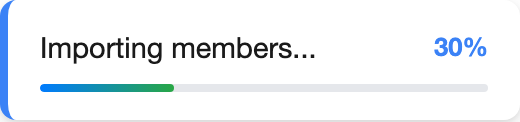
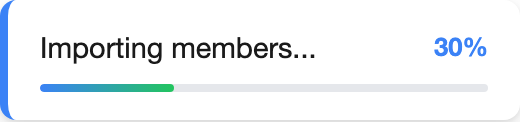
Fix UI consistency issues across components
- FlareModal: keep the close button right-aligned when there is no title.
- FlareCheckList: render InputAttributes on the root element; they were
  captured but never splatted.
- FlareRelativeTime/FlareRelativeDay: add a Class parameter so a custom
  class no longer replaces flare-title and breaks the tooltip.
- Loading bar and loading toast: default colors now match the rest of
  the palette (#3b82f6 / #22c55e instead of #007bff / #28a745).
- Loading bar: z-index 9300 so it stays above modal, confirm and toasts.

Changed region(s): [[0.0615, 0.6885, 0.2154, 0.7623], [0.2462, 0.6885, 0.3385, 0.7623]]

diff --git a/src/Flare/Components/FlareLoadingToast.razor.css b/src/Flare/Components/FlareLoadingToast.razor.css
@@ -50,9 +50,9 @@
             --flare-loading-bar-background,
             linear-gradient(
                 to right,
-                var(--flare-loading-toast-color, var(--flare-loading-bar-color, #007bff)),
-                var(--flare-loading-toast-color-alt, var(--flare-loading-toast-color, var(--flare-loading-bar-color-alt, var(--flare-loading-bar-color, #28a745)))),
-                var(--flare-loading-toast-color, var(--flare-loading-bar-color, #007bff))
+                var(--flare-loading-toast-color, var(--flare-loading-bar-color, #3b82f6)),
+                var(--flare-loading-toast-color-alt, var(--flare-loading-toast-color, var(--flare-loading-bar-color-alt, var(--flare-loading-bar-color, #22c55e)))),
+                var(--flare-loading-toast-color, var(--flare-loading-bar-color, #3b82f6))
             )
         )
     );

diff --git a/src/Flare/Components/FlareLoadingBar.razor.css b/src/Flare/Components/FlareLoadingBar.razor.css
@@ -4,7 +4,7 @@
     left: 0;
     right: 0;
     height: 6px;
-    z-index: 9100;
+    z-index: 9300;
     pointer-events: none;
 }
 
@@ -18,9 +18,9 @@
         --flare-loading-bar-background,
         linear-gradient(
             to right,
-            var(--flare-loading-bar-color, #007bff),
-            var(--flare-loading-bar-color-alt, var(--flare-loading-bar-color, #28a745)),
-            var(--flare-loading-bar-color, #007bff)
+            var(--flare-loading-bar-color, #3b82f6),
+            var(--flare-loading-bar-color-alt, var(--flare-loading-bar-color, #22c55e)),
+            var(--flare-loading-bar-color, #3b82f6)
         )
     );
     background-size: 200% 100%;

diff --git a/src/Flare/Components/FlareModal.razor.css b/src/Flare/Components/FlareModal.razor.css
@@ -39,6 +39,7 @@
 
 .flare-modal-close {
     all: unset;
+    margin-left: auto;
     cursor: pointer;
     font-size: 1.5rem;
     line-height: 1;

diff --git a/src/Flare/Components/FlareRelativeTime.razor.cs b/src/Flare/Components/FlareRelativeTime.razor.cs
@@ -26,6 +26,11 @@ public partial class FlareRelativeTime : ComponentBase
     [Parameter] public string Placeholder { get; set; } = "";
 
     /// <summary>
+    /// CSS class(es) applied to the wrapping <c>&lt;span&gt;</c> element.
+    /// </summary>
+    [Parameter] public string? Class { get; set; }
+
+    /// <summary>
     /// Additional HTML attributes splatted onto the wrapping <c>&lt;span&gt;</c> element.
     /// </summary>
     [Parameter(CaptureUnmatchedValues = true)] public Dictionary<string, object>? InputAttributes { get; set; }

diff --git a/src/Flare/Components/FlareRelativeDay.razor.cs b/src/Flare/Components/FlareRelativeDay.razor.cs
@@ -27,6 +27,11 @@ public partial class FlareRelativeDay : ComponentBase
     [Parameter] public string Placeholder { get; set; } = "";
 
     /// <summary>
+    /// CSS class(es) applied to the wrapping <c>&lt;span&gt;</c> element.
+    /// </summary>
+    [Parameter] public string? Class { get; set; }
+
+    /// <summary>
     /// Additional HTML attributes splatted onto the wrapping <c>&lt;span&gt;</c> element.
     /// </summary>
     [Parameter(CaptureUnmatchedValues = true)] public Dictionary<string, object>? InputAttributes { get; set; }

diff --git a/README.md b/README.md
@@ -403,8 +403,8 @@ using var _ = Flare.StartLoadingBar(delayMs: 0);  // shows immediately
 Colors are customizable via CSS variables on `:root` (or any ancestor):
 
 ```css
---flare-loading-bar-color: #007bff;      /* first gradient stop; set only this for a solid color */
---flare-loading-bar-color-alt: #28a745;  /* second gradient stop */
+--flare-loading-bar-color: #3b82f6;      /* first gradient stop; set only this for a solid color */
+--flare-loading-bar-color-alt: #22c55e;  /* second gradient stop */
 --flare-loading-bar-background: ...;     /* optional full background override */
 ```
 
@@ -439,8 +439,8 @@ toast.Dispose();
 The bar uses the same `--flare-loading-bar-*` colors by default. Override independently:
 
 ```css
---flare-loading-toast-color: #007bff;
---flare-loading-toast-color-alt: #28a745;
+--flare-loading-toast-color: #3b82f6;
+--flare-loading-toast-color-alt: #22c55e;
 --flare-loading-toast-background: ...;   /* optional full fill override */
 --flare-loading-toast-track: #e5e7eb;    /* unfilled track */
 --flare-loading-toast-accent: #3b82f6;   /* left border + percent label */
